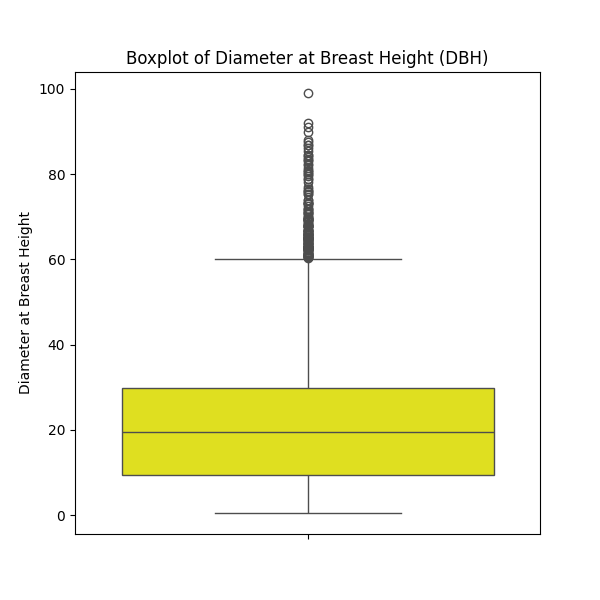
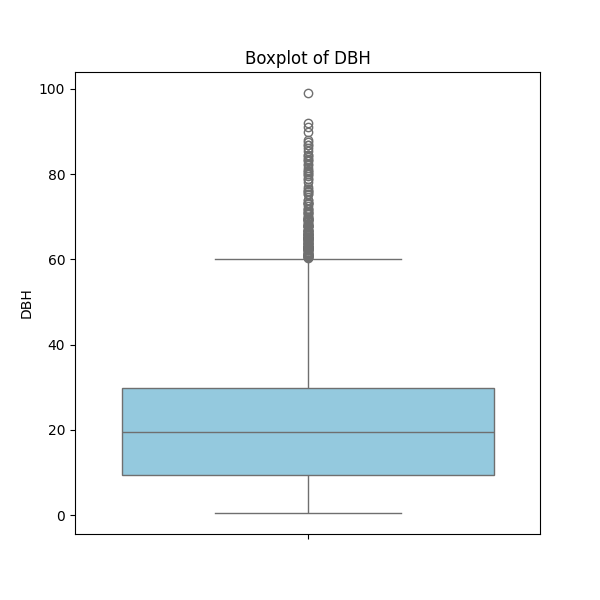
Boxplot.py and correlation coefficient and matrix

diff --git a/src/main.py b/src/main.py
@@ -1,8 +1,9 @@
 import matplotlib.pyplot as plt
 import numpy as np
 import pandas as pd
-import seaborn as sns
 import os
+
+import plot_boxplot as pbp
 
 # Get the current directory of the script
 parnet_dir = os.path.dirname(os.path.dirname(__file__))
@@ -34,35 +35,32 @@ value_median = np.median(value)
 value_range = np.ptp(value)
 value_std_dev = np.std(value)
 
-print('Descriptive Statistics for Diameter at Breast Height (DBH):')
+# Calculate the correlation coefficient between DBH & TAB
+corr_coef = np.corrcoef(size, value)[0, 1]
+dbh_tab_df = trees[['DBH', 'TreeHeight', 'CrownWidthNS', 'Pollution_Removal_oz', 'Stormwater_ft', 'Total_Annual_Benefits']]
+correlation_matrix = dbh_tab_df.corr()
+
+# Print DBH stats
+print('Descriptive Statistics for Diameter at Breast Height:')
 print(f'Mean: {size_mean:.2f}')
 print(f'Median: {size_median:.2f}')
 print(f'Range: {size_range:.2f}')
 print(f'Std-Dev: {size_std_dev:.2f}')
-print()
-print('Descriptive Statistics for Total Annual Benefits (TAB):')
+
+# Plotting DBH box-plot
+pbp.plot_boxplot(size, 'DBH')
+
+# Print TAB stats
+print('\nDescriptive Statistics for Total Annual Benefits:')
 print(f'Mean: {value_mean:.2f}')
 print(f'Median: {value_median:.2f}')
 print(f'Range: {value_range:.2f}')
 print(f'Std-Dev: {value_std_dev:.2f}')
 
-# Plotting DBH box-plot
-plt.figure(figsize=(6, 6))
-sns.boxplot(y=size, color='yellow')
-plt.title('Boxplot of Diameter at Breast Height (DBH)')
-plt.ylabel('Diameter at Breast Height')
-plt.savefig('resources/DBH_box_plot.png')
-# plt.show()
+# Plot TAB box-plot
+pbp.plot_boxplot(value, 'TAB')
 
-# Plotting TAB box-plot
-plt.figure(figsize=(6, 6))
-sns.boxplot(y=value, color='green')
-plt.title('Boxplot of Total Annual Benefits (TAB)')
-plt.ylabel('Total Annual Benefits')
-plt.savefig('resources/TAB_box_plot.png')
-# plt.show()
-
-# Plotting DBHxTAB
+# Plot TAB & DBH scatter plot
 plt.clf() # Clear the current plot so you don't plot over the previous graph
 plt.scatter(size, value, 0.75)
 plt.xlabel('Diameter at Breast Height')
@@ -70,3 +68,9 @@ plt.ylabel('Total Annual Benefits')
 plt.title('Total Annual Benefits of Portland Parks Tree Inventory\nby Tree Diameter at Breast Height')
 plt.savefig('resources/TABxDBH_scatter_plot.png')
 # plt.show()
+
+# Print the DBH & TAB correlation coefficient
+print(f'\nCorrelation coefficient between DBH & TAB: {corr_coef:.2f}')
+print(f'\nCorrelation matrix:\n{correlation_matrix}')
+
+

diff --git a/src/plot_boxplot.py b/src/plot_boxplot.py
@@ -1,0 +1,28 @@
+import matplotlib.pyplot as plt
+import seaborn as sns
+import numpy as np
+
+def plot_boxplot(data, variable_name):
+    '''
+    Create a boxplot given a list of data points and the name of the variable.
+    
+    Parameters:
+        data (list or pandas.Series): List of data points
+        variable_name (str): Name of the variable
+    '''
+    # Create a boxplot
+    plt.clf() # Clear the current plot so you don't plot over the previous graph
+    plt.figure(figsize=(6, 6))
+    sns.boxplot(y=data, color='skyblue')
+    plt.ylabel(variable_name)
+    plt.title(f'Boxplot of {variable_name}')
+    plt.savefig(f'resources/{variable_name}_box_plot.png')
+    # plt.show()
+
+    # Print out the values used to make the boxplot
+    print(f'\nBoxplot values for {variable_name}:')
+    print('Minimum:', min(data))
+    print('(Q1) 25th Percentile:', np.percentile(data, 25))
+    print('(Q2) Median:', np.median(data))
+    print('(Q3) 75th Percentile:', np.percentile(data, 75))
+    print('Maximum:', max(data))
